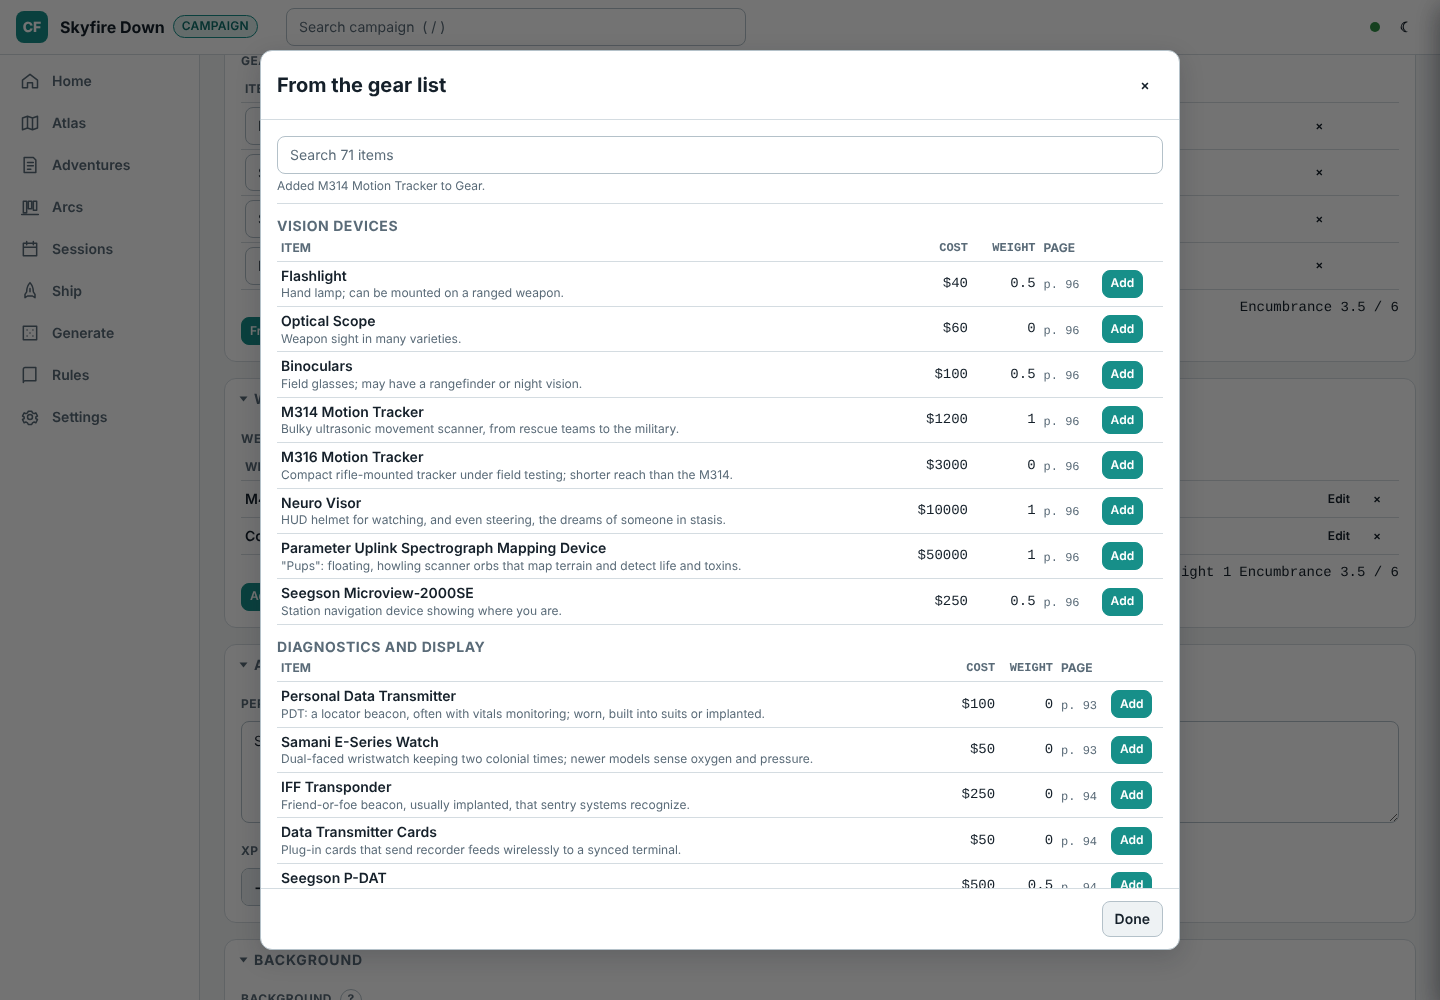
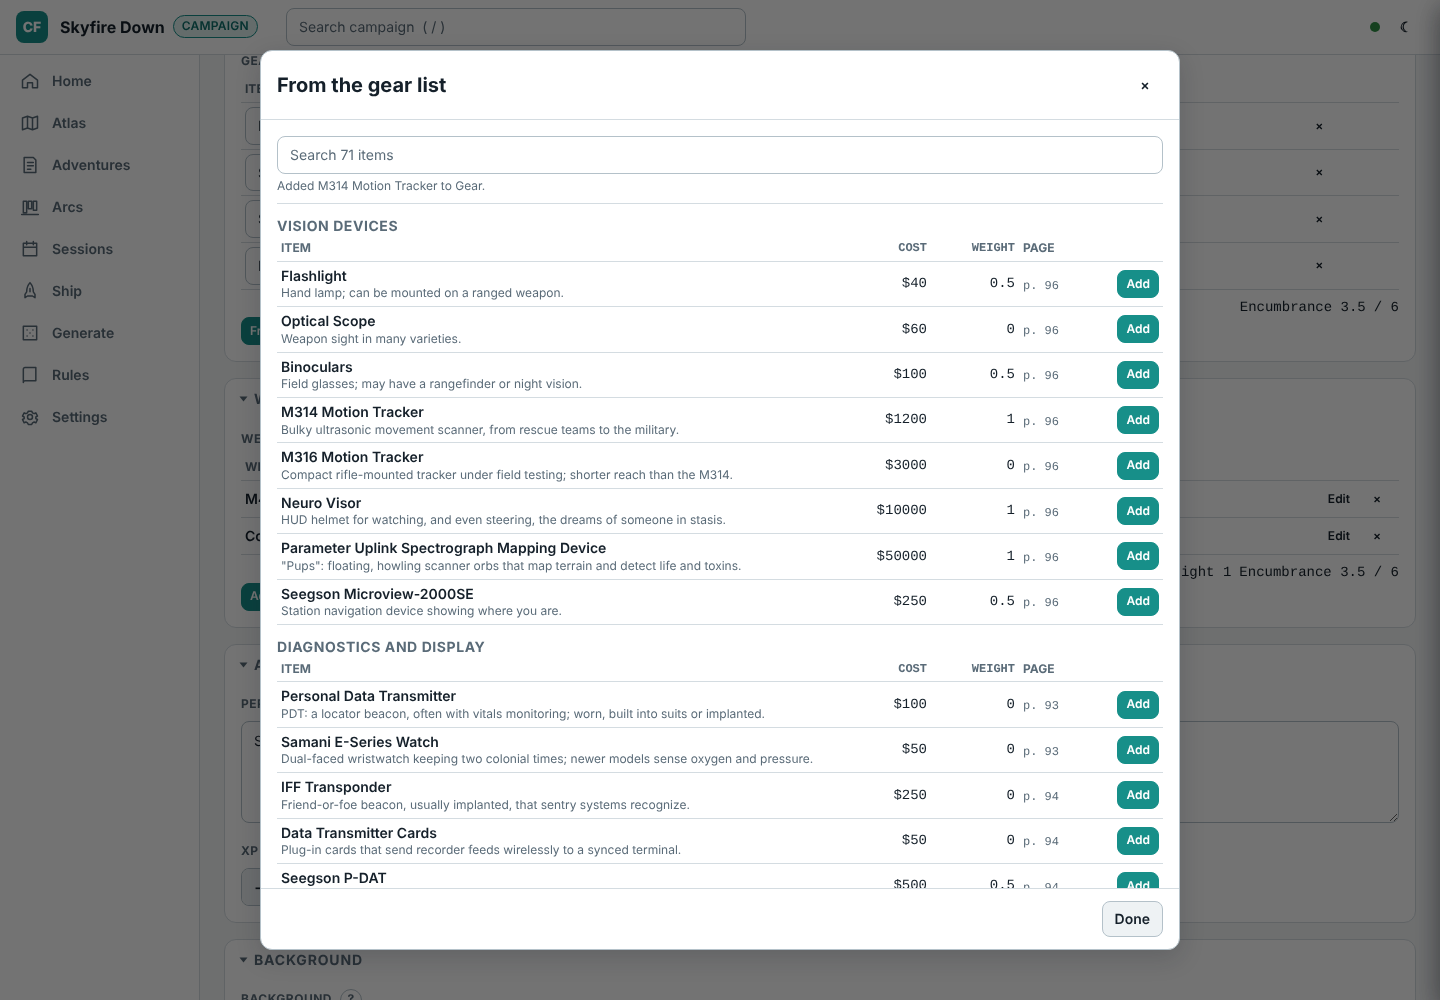
Gear list: line up cost, weight, page and Add across every group
Claude-Session: https://claude.ai/code/session_01PjoAoT19ZxbEizz2Vq94tE

diff --git a/packages/ui/src/widgets/gear.tsx b/packages/ui/src/widgets/gear.tsx
@@ -88,7 +88,7 @@ function GearCatalogPicker({
         {groups.map((g) => (
           <section key={g.id || "other"} className="cf-weapons__group" aria-label={g.label} data-group={g.id}>
             <h3 className="cf-weapons__group-title">{g.label}</h3>
-            <table className="cf-weapons cf-weapons--picker">
+            <table className="cf-weapons cf-weapons--picker cf-weapons--catalog">
               <thead>
                 <tr>
                   <th scope="col">Item</th>
@@ -97,8 +97,10 @@ function GearCatalogPicker({
                       {c.label}
                     </th>
                   ))}
-                  <th scope="col">Page</th>
-                  <th scope="col" />
+                  <th scope="col" className="cf-weapons__page">
+                    Page
+                  </th>
+                  <th scope="col" className="cf-weapons__act" />
                 </tr>
               </thead>
               <tbody>
@@ -113,10 +115,10 @@ function GearCatalogPicker({
                         {weaponColumnText(c, p.fields) || <span className="cf-muted">—</span>}
                       </td>
                     ))}
-                    <td>
+                    <td className="cf-weapons__page">
                       <PageRef page={p.page} cite={p.cite} original={p.original} />
                     </td>
-                    <td>
+                    <td className="cf-weapons__act">
                       <Button
                         size="sm"
                         variant="primary"

diff --git a/packages/ui/src/styles/components.css b/packages/ui/src/styles/components.css
@@ -2590,3 +2590,28 @@ span.cf-weapons__name {
   gap: var(--cf-space-2);
   font-size: var(--cf-text-xs);
 }
+
+/* the gear list: every group's columns line up (fixed widths), the item name takes the rest */
+.cf-weapons--catalog {
+  table-layout: fixed;
+  width: 100%;
+}
+.cf-weapons--catalog .cf-weapons__num {
+  width: 5.5rem;
+}
+.cf-weapons--catalog .cf-weapons__page {
+  width: 4.5rem;
+  white-space: nowrap;
+}
+.cf-weapons--catalog .cf-weapons__act {
+  width: 4.5rem;
+  text-align: right;
+}
+@media (max-width: 600px) {
+  .cf-weapons--catalog .cf-weapons__num {
+    width: 3.75rem;
+  }
+  .cf-weapons--catalog .cf-weapons__page {
+    width: 3.5rem;
+  }
+}
